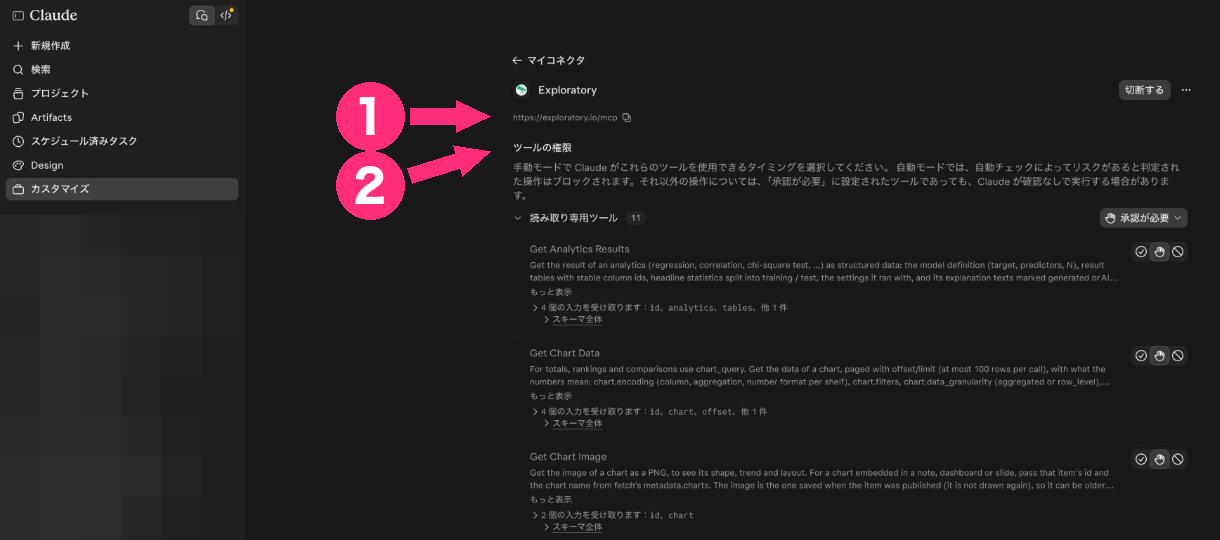
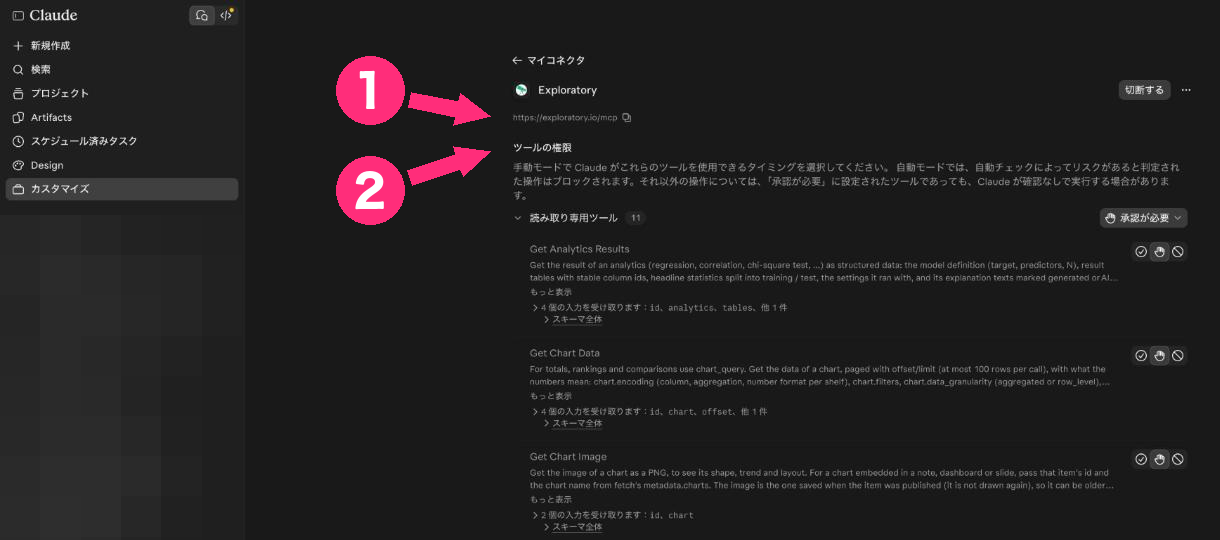
Update ChatGPT details and Claude tools screenshots and their captions

Changed region(s): [[0.2492, 0.0889, 0.4049, 0.4148]]

diff --git a/mcp/server/clients/chatgpt_ja.md b/mcp/server/clients/chatgpt_ja.md
@@ -95,11 +95,11 @@ https://exploratory.io/mcp
 
 ### 12. 接続されたことを確かめる
 
-ChatGPT に戻ると、「Customize」の左の「Installed」（インストール済み）に「Exploratory」が表示されます。「Exploratory」を開くと、バージョン（「Version」）などの情報と、「Try in chat」（チャットで試す）のボタンが表示されます。
+ChatGPT に戻ると、「Customize」の左の「Installed」（インストール済み）に「Exploratory」が表示されます。「Exploratory」を開くと、詳細画面に、「Apps」（アプリ）の下の「Exploratory」の行と、「Information」（情報）が表示されます。「Information」には、「Developer」（開発者）、「Category」（カテゴリ）、「Version」（バージョン）、「Website」（Web サイト）が並びます。
 
-![「Exploratory」の詳細画面](images/en/chatgpt-08-connected.png)
+![「Exploratory」の詳細画面の「Apps」と「Information」](images/en/chatgpt-08-connected.png)
 
-画像の 1 は、接続できたことを知らせる通知です。
+画像の 1 は、「Apps」の下の「Exploratory」の行です。画像では、「Developer」の欄をぼかしています。
 
 ### 13. 試す
 

diff --git a/mcp/server/clients/chatgpt.md b/mcp/server/clients/chatgpt.md
@@ -95,11 +95,11 @@ In the image, 1 is the approval button (Allow). This screen of exploratory.io is
 
 ### 12. Check that it is connected
 
-Back in ChatGPT, Exploratory appears under Installed on the left of Customize. Open Exploratory to see its details, such as Version, and the Try in chat button.
+Back in ChatGPT, Exploratory appears under Installed on the left of Customize. Open Exploratory to see its details: the Exploratory row under Apps, and Information. Information lists Developer, Category, Version and Website.
 
-![The Exploratory details](images/en/chatgpt-08-connected.png)
+![Apps and Information in the Exploratory details](images/en/chatgpt-08-connected.png)
 
-In the image, 1 is the notification that tells you it is connected.
+In the image, 1 is the Exploratory row under Apps. The Developer field is blurred in the image.
 
 ### 13. Try it
 

diff --git a/mcp/server/clients/claude.md b/mcp/server/clients/claude.md
@@ -103,7 +103,7 @@ Open Exploratory in the list to see the server URL (https://exploratory.io/mcp) 
 
 ![The tool permissions in the Exploratory details](images/ja/claude-06-tools.png)
 
-In the image, 1 is the server URL and 2 is the tool permissions.
+In the image, 1 is the server URL and 2 is the heading of the tool permissions.
 
 <a id="trouble"></a>
 
